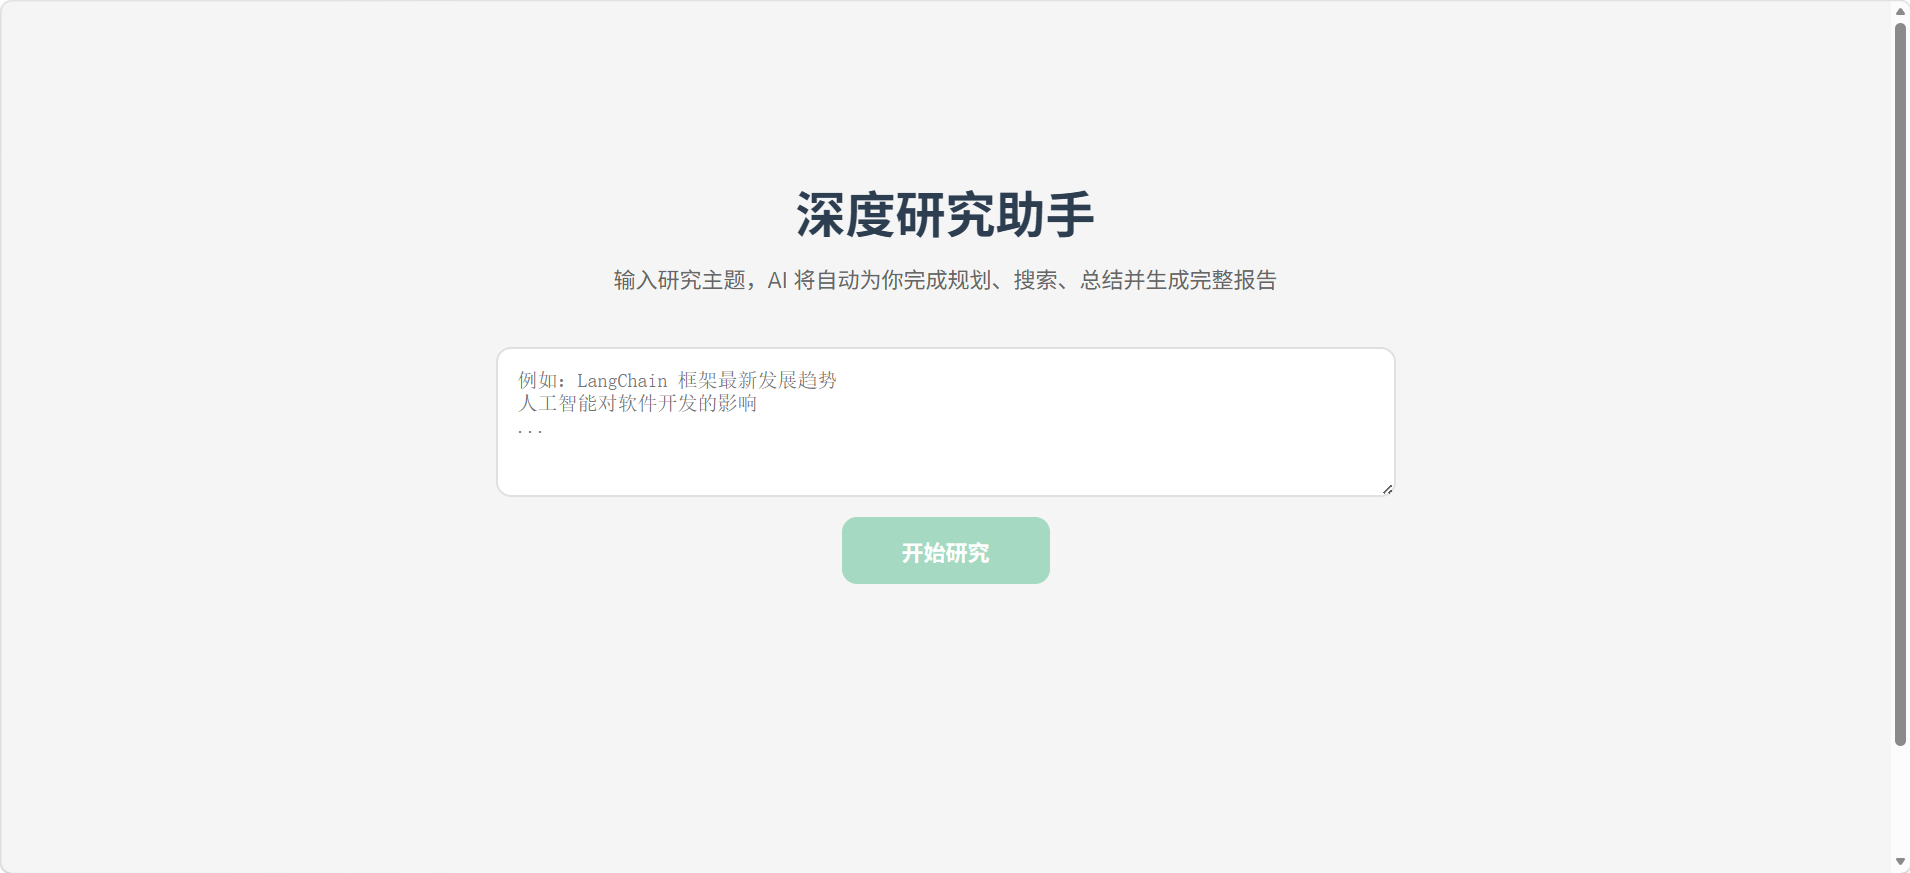
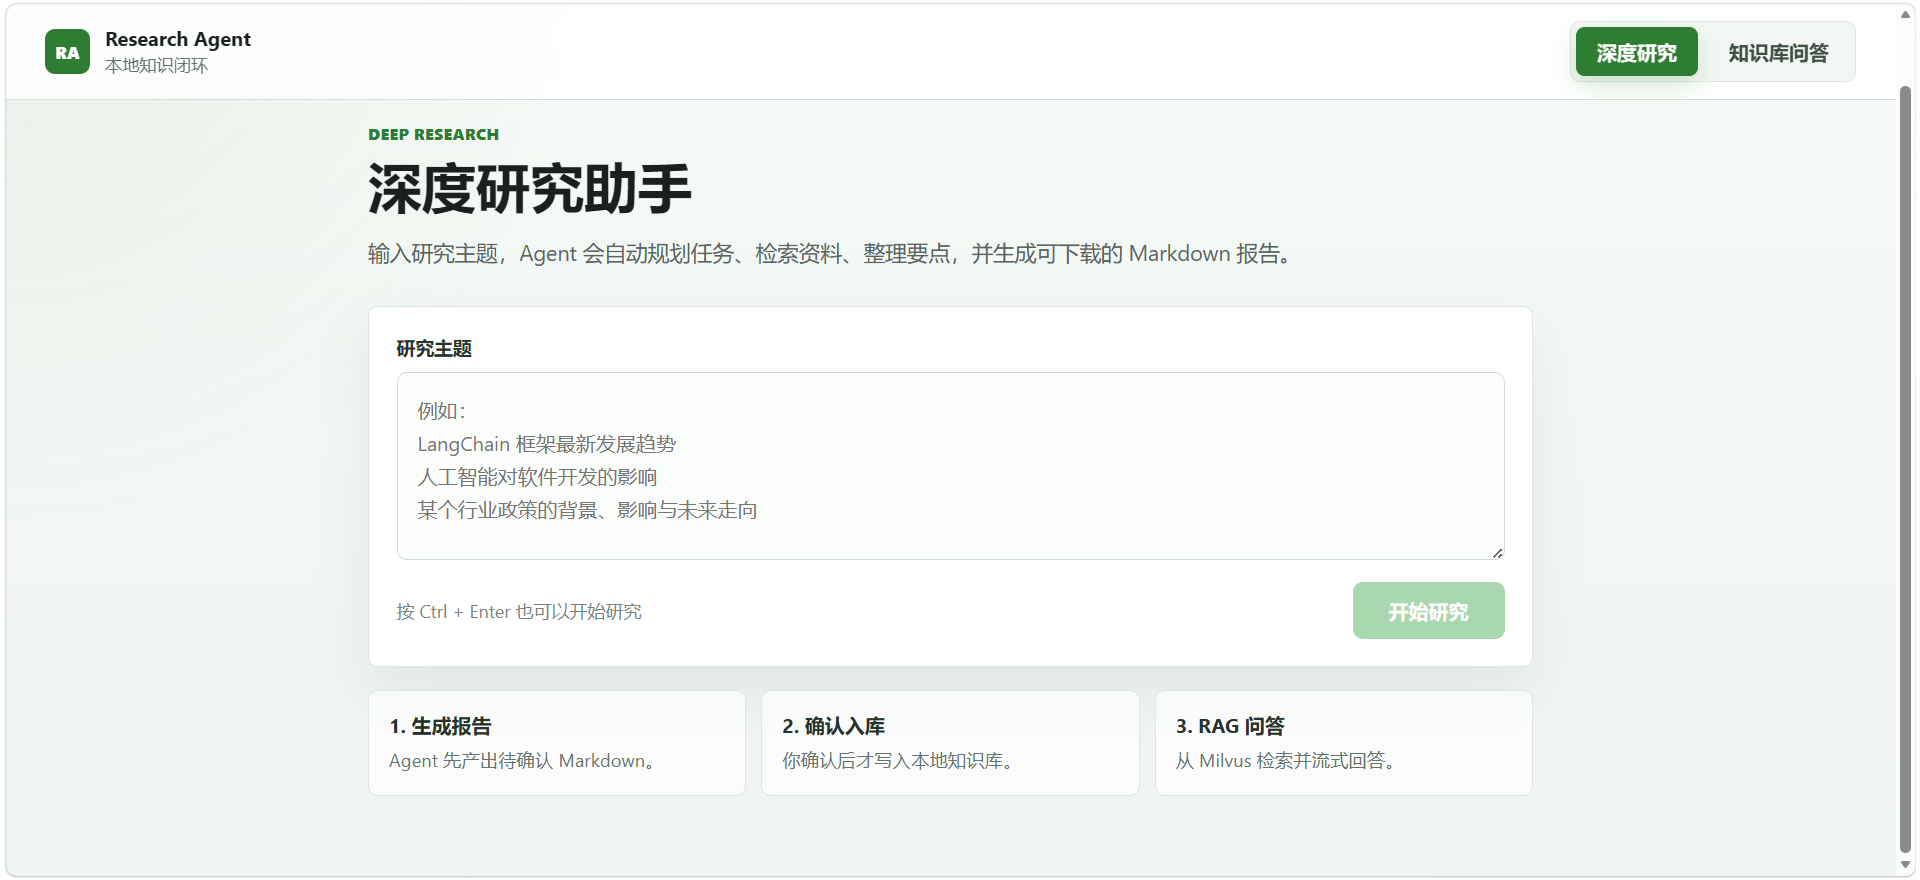
Readme"

diff --git a/README.md b/README.md
@@ -1,64 +1,206 @@
-# 自动化深度研究智能体系统
+# 自动化深度研究Agent + 本地知识库RAG系统
 
-TODO 驱动的全自动深度研究助手，使用 LangChain + FastAPI + Vue 3 构建。
+这是一个面向中文资料研究的多Agent项目。系统支持从用户输入主题开始，自动规划研究任务、检索外部资料、总结信息并生成 Markdown报告；报告生成后不会立即进入知识库，而是先进入待确认区，只有用户在前端点击“确认入库”后，才会写入本地Markdown 知识库并增量索引到Milvus，供RAG问答检索使用。
 
+```text
+用户输入研究主题
+  -> Agent 检索与生成 Markdown 报告
+  -> 保存为待确认报告
+  -> 用户前端确认入库
+  -> 写入 backend/data/markdown
+  -> Markdown 结构化切分
+  -> dense embedding + Milvus BM25 sparse
+  -> Hybrid 检索 + 可选 Rerank
+  -> RAG 页面流式回答
+```
 ![图片](./images/1.png)
 ![图片](./images/2.png)
 ![图片](./images/3.png)
+![图片](./images/3.png)
+## 核心功能
 
-## 功能特点
+- 多Agent深度研究：规划、搜索、总结、报告生成。
+- SSE流式输出：研究进度、最终报告、RAG回答均支持前端实时展示。
+- 用户确认入库：Agent生成的报告先进入待确认目录，用户确认后才进入知识库。
+- 本地Markdown 知识库：已确认报告保存到 `backend/data/markdown/`。
+- Milvus RAG：使用本地Docker部署的Milvus存储dense/sparse向量。
+- Markdown 结构化分块：按一级标题、二级标题、参考来源章节切分。
+- Hybrid检索：dense语义召回 + Milvus内置BM25 sparse召回 + RRF融合。
+- 元数据过滤：当前支持 `doc_id`、`chunk_type`、`domain`。
+- 检索调试日志：每次检索会输出命中信息。
+- Markdown渲染：研究报告和 RAG 回答均支持 Markdown渲染。
+- 不持久化聊天记录：RAG聊天内容只保存在前端内存中，刷新即清空。
 
-- **三 Agent 协作架构**: 规划 → 搜索 → 总结 → 报告自动生成
-- **实时进度推送**: 通过 SSE 推送实时进度到前端
-- **多种搜索引擎**: 支持 Tavily（推荐）和 DuckDuckGo（免费无密钥）
-- **流式报告生成**: 最终报告支持流式输出，逐步显示
-- **中文优化**: 所有 Agent Prompt 和输出都是中文
+## 技术栈
+
+后端：
+
+- Python 3.10+
+- FastAPI
+- LangChain / langchain-openai
+- Tavily 或 DuckDuckGo 搜索
+- pymilvus
+- sentence-transformers
+- torch
+
+前端：
+
+- Vue 3
+- TypeScript
+- Vite
+- marked.js
+
+向量数据库：
+
+- Milvus本地Docker
+- Collection：`research_agent_chunks_v2`
+- Dense embedding：`BAAI/bge-small-zh-v1.5`
+- Sparse/BM25：优先使用 Milvus 内置 BM25 / Function 能力
 
 ## 项目结构
 
-```
+```text
 research_agent/
 ├── backend/
-│   ├── main.py                  # FastAPI 入口
 │   ├── agents/
-│   │   ├── planner.py           # TODO 规划 Agent
-│   │   ├── summarizer.py        # 任务总结 Agent
-│   │   └── reporter.py          # 报告撰写 Agent
+│   │   ├── planner.py                 # 研究任务规划 Agent
+│   │   ├── summarizer.py              # 子任务总结 Agent
+│   │   └── reporter.py                # Markdown 报告生成 Agent
 │   ├── services/
 │   │   ├── planning_service.py
 │   │   ├── search_service.py
 │   │   ├── summarization_service.py
-│   │   └── reporting_service.py
+│   │   ├── reporting_service.py
+│   │   └── report_storage_service.py  # 待确认报告保存、确认入库
 │   ├── tools/
-│   │   └── search_tool.py       # 搜索工具封装
-│   ├── schemas.py               # Pydantic 数据模型
-│   └── config.py                # 配置
+│   │   └── search_tool.py             # Tavily / DuckDuckGo 搜索封装
+│   ├── rag/
+│   │   ├── schemas.py                 # RAG 数据模型
+│   │   ├── markdown_loader.py         # Markdown 加载
+│   │   ├── text_splitter.py           # Markdown 结构化切分
+│   │   ├── metadata_extractor.py      # domain 元数据提取
+│   │   ├── embeddings.py              # BGE embedding
+│   │   ├── milvus_store.py            # Milvus collection / insert / search
+│   │   ├── query_analyzer.py          # 查询分析、改写、过滤条件生成
+│   │   ├── hybrid_retriever.py        # dense + sparse + RRF 融合检索
+│   │   ├── reranker.py                # 可选 rerank
+│   │   ├── retrieval_trace.py         # 检索链路日志和调试输出
+│   │   ├── indexer.py                 # 文件/目录索引入口
+│   │   ├── qa_service.py              # RAG 问答服务
+│   │   └── prompts.py                 # RAG Prompt
+│   ├── data/
+│   │   ├── pending_reports/           # Agent 生成后待确认的报告
+│   │   └── markdown/                  # 用户确认入库后的知识库 Markdown
+│   ├── schemas.py
+│   └── config.py
 ├── frontend/
 │   ├── src/
 │   │   ├── App.vue
 │   │   ├── components/
+│   │   │   ├── AppNav.vue
 │   │   │   ├── SearchBox.vue
 │   │   │   ├── ResearchModal.vue
 │   │   │   ├── TodoList.vue
-│   │   │   └── ReportViewer.vue
-│   │   └── composables/
-│   │       └── useResearch.ts   # SSE 逻辑封装
+│   │   │   ├── ReportViewer.vue
+│   │   │   └── RagChat.vue
+│   │   ├── composables/
+│   │   │   ├── useResearch.ts
+│   │   │   └── useRagChat.ts
+│   │   ├── main.ts
+│   │   └── style.css
 │   └── package.json
-├── .env.example
-└── requirements.txt
+├── images/
+├── requirements.txt
+├── .env
+└── README.md
 ```
 
-## 架构说明
+## RAG 数据设计
 
-### 三个 Agent 协作
+当前Milvus collection名称：
 
-1. **TODO Planner**: 将用户研究主题分解为 3~5 个子任务，输出 JSON
-2. **Task Summarizer**: 接收单个子任务的搜索结果，生成结构化摘要（JSON）
-3. **Report Writer**: 整合所有摘要，流式输出最终 Markdown 报告
+```text
+research_agent_chunks_v2
+```
+
+Schema：
+
+```text
+chunk_uid      VARCHAR primary key
+doc_id         VARCHAR
+chunk_type     VARCHAR      # title / section / reference
+domain         VARCHAR      # 技术 / 金融 / 医疗 / 教育 / 政策 / 产品 / 其他
+content        VARCHAR
+dense_vector   FLOAT_VECTOR dim=512
+sparse_vector  SPARSE_FLOAT_VECTOR
+```
+
+说明：
+
+- `chunk_uid`：chunk唯一 ID。
+- `doc_id`：文档归属ID，后续可用于按文档过滤。
+- `chunk_type`：区分标题块、正文块、参考来源块。
+- `domain`：主题领域，用于基础元数据过滤。
+- `content`：保留原始chunk文本，便于调试、引用展示和BM25 sparse检索。
+- `dense_vector`：BGE向量，用于语义召回。
+- `sparse_vector`：Milvus内置BM25 sparse向量，用于关键词召回。
+
+## Agent与知识库入库流程
+
+1. 用户在前端输入研究主题。
+2. 后端启动研究任务，通过SSE推送规划、搜索、总结、报告生成状态。
+3. Agent生成Markdown报告。
+4. 报告保存到：
+
+```text
+backend/data/pending_reports/
+```
+
+5. 前端展示“确认入库”按钮。
+6. 用户确认后，报告复制到：
+
+```text
+backend/data/markdown/
+```
+
+7. `RagIndexer`加载该Markdown，结构化切分、提取domain、生成dense embedding，并写入Milvus。
+8. RAG问答页面即可检索该报告内容。
+
+也就是说：没有经过用户确认入库的报告，不会进入Milvus向量数据库。
+
+## RAG 检索流程
+
+```text
+用户提问
+  -> QueryAnalyzer 分析查询
+  -> 生成 rewritten_query / expanded_queries / domain / include_references
+  -> 构造 Milvus filter expr
+  -> dense search
+  -> sparse BM25 search
+  -> RRF 融合
+  -> 可选 rerank
+  -> 拼接上下文
+  -> 大模型流式生成回答
+```
+
+默认配置：
+
+```text
+DENSE_TOP_K=20
+SPARSE_TOP_K=20
+HYBRID_TOP_K=8
+RERANK_TOP_K=5
+RRF_K=60
+ENABLE_RERANK=False
+ENABLE_QUERY_REWRITE=True
+ENABLE_SPARSE_SEARCH=True
+```
+
+`ENABLE_RERANK` 默认关闭，因为 `BAAI/bge-reranker-base` 首次加载会下载较大的模型文件。需要更高检索质量时，可以手动开启。
 
 ## 环境准备
 
-### 1. 创建 Conda 环境
+### 1. 创建 Python 环境
 
 ```bash
 conda create -n research python=3.10
@@ -79,69 +221,120 @@ cd frontend
 npm install
 ```
 
-### 4. 配置环境变量
+### 4. 启动 Milvus
 
-创建 `.env` 文件并填写你的 API Key:
+项目要求本地已经通过Docker部署 Milvus，并开放默认端口：
 
-编辑 `.env`:
-
-```env
-# LLM 
-填写你的llm信息
-LLM_API_KEY = xxx
-LLM_MODEL_ID = xxx
-LLM_BASE_URL = xxx
-
-# 搜索 - 推荐使用 Tavily
-TAVILY_API_KEY=your_tavily_api_key_here
-SEARCH_ENGINE=tavily
-
-# 如果没有 Tavily API Key，可以用 DuckDuckGo（免费但有限制）
-# SEARCH_ENGINE=duckduckgo
+```text
+localhost:19530
 ```
 
-> 获取 Tavily API Key: https://tavily.com/
+如果你的Milvus地址不同，请在 `.env` 中修改：
 
-## 启动服务
+```env
+MILVUS_HOST=localhost
+MILVUS_PORT=19530
+MILVUS_COLLECTION=research_agent_chunks_v2
+```
 
-### 1. 启动后端
+### 5. 配置环境变量
+
+在项目根目录创建 `.env`：
+
+```env
+# LLM，兼容 OpenAI 格式接口
+LLM_API_KEY=your_llm_api_key
+LLM_MODEL_ID=your_model_id
+LLM_BASE_URL=your_base_url
+
+# 搜索引擎
+TAVILY_API_KEY=your_tavily_api_key
+SEARCH_ENGINE=tavily
+
+# 如果不使用 Tavily，可切换为 DuckDuckGo
+# SEARCH_ENGINE=duckduckgo
+
+# Milvus
+MILVUS_HOST=localhost
+MILVUS_PORT=19530
+MILVUS_COLLECTION=research_agent_chunks_v2
+
+# Embedding
+EMBEDDING_MODEL_NAME=BAAI/bge-small-zh-v1.5
+EMBEDDING_DIM=512
+
+# RAG
+ENABLE_SPARSE_SEARCH=True
+ENABLE_QUERY_REWRITE=True
+ENABLE_RERANK=False
+```
+
+## 启动项目
+
+### 后端
+
+请先确认FastAPI入口文件存在。旧版项目使用：
 
 ```bash
 cd research_agent/backend
 python main.py
 ```
 
-后端将在 `http://localhost:8000` 启动。
+也可以使用类似命令：
 
-### 2. 启动前端（另开终端）
+```bash
+uvicorn main:app --host 0.0.0.0 --port 8000 --reload
+```
+
+后端默认地址：
+
+```text
+http://localhost:8000
+```
+
+### 前端
 
 ```bash
 cd research_agent/frontend
 npm run dev
 ```
 
-前端将在 `http://localhost:5173` 启动，打开浏览器访问即可使用。
+前端默认地址：
 
-## 使用流程
+```text
+http://localhost:5173
+```
 
-1. 在首页输入你的研究主题（例如：`LangChain 框架最新发展趋势`）
-2. 点击「开始研究」
-3. 在弹出窗口中查看实时进度：
-   - 首先 AI 会制定研究计划（分解为子任务）
-   - 然后逐个对子任务进行搜索和总结
-   - 最后生成完整的 Markdown 报告
-4. 研究完成后，可以查看完整报告
+## 日志与调试
 
+RAG 检索会输出较详细日志，便于排查召回质量：
 
-## 技术栈
+```text
+trace_id
+original_query
+rewritten_query
+expanded_queries
+filter_expr
+dense_hits
+sparse_hits
+fused_hits
+reranked_hits
+selected_context
+```
 
-- **后端**: Python 3.10+, LangChain, FastAPI
-- **前端**: Vue 3, TypeScript, Vite, marked.js
-- **搜索引擎**: Tavily / DuckDuckGo
-- **LLM**: doubaoSeed（推荐，也兼容其他 OpenAI 格式模型）
+如果 RAG 回答不符合预期，建议优先查看：
 
-## 后续优化点
+1. `/api/rag/search` 返回的 `dense_hits` 和 `sparse_hits`。
+2. `filter_expr` 是否因为 `domain` 或 `chunk_type` 过滤过严。
+3. Milvus collection是否为 `research_agent_chunks_v2`。
+4. 已确认入库的 Markdown 是否存在于 `backend/data/markdown/`。
 
-- 实现持久化保存聊天记录。
-- 支持报告下载为PDF文件
-- 扩展更多的搜索引擎
+## 后续迭代方向
+
+- 知识库文档列表与删除/重建索引。
+- 更细粒度的metadata filter。
+- 检索结果引用来源展示。
+- 查询改写和多轮检索增强。
+- Rerank默认可配置化与模型缓存说明。
+- RAG 聊天记录持久化。
+
